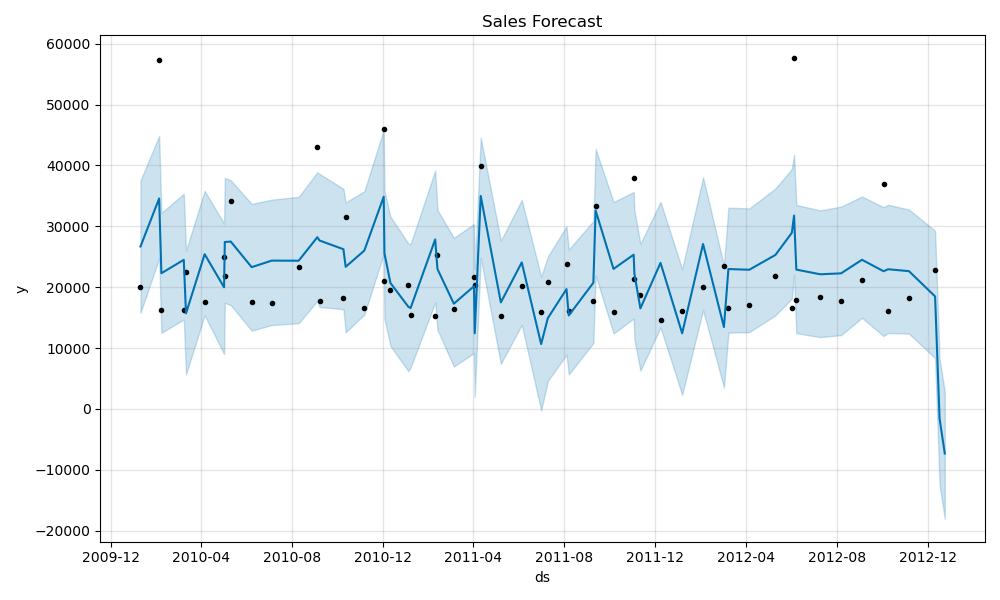
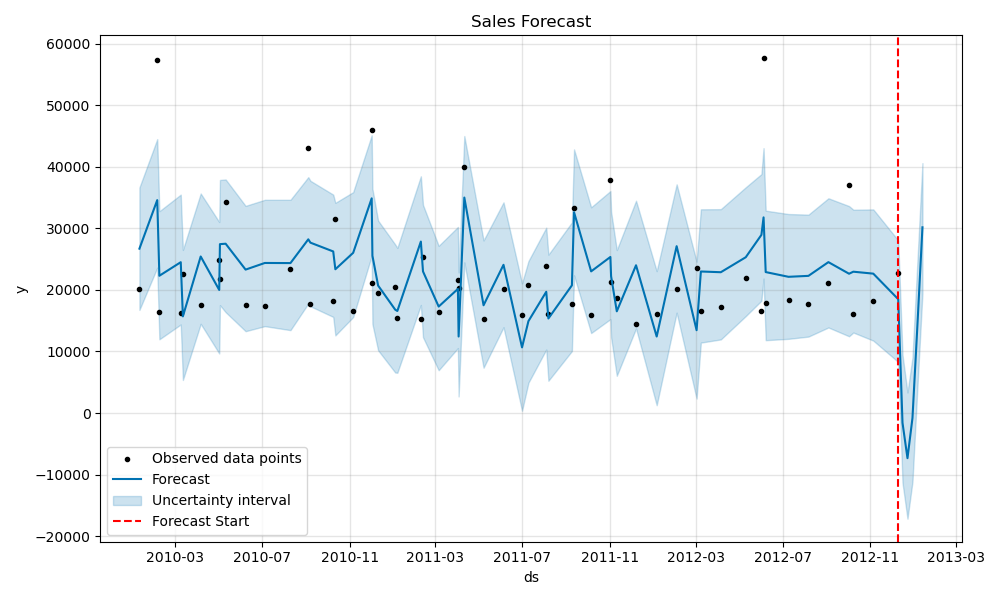
Added forecast start line and horizon input support

diff --git a/predictor/views.py b/predictor/views.py
@@ -21,6 +21,14 @@ def home(request):
 
         # Save plot
         fig = model.plot(forecast)
+
+        # Draw a red line at the end of historical data
+        # Use the length of the model history to determine cutoff
+        cutoff_date = model.history['ds'].max()
+        plt.axvline(x=cutoff_date, color='red', linestyle='--', label='Forecast Start')
+        plt.legend()
+
+        # Final touches and save
         plt.title("Sales Forecast")
         plt.tight_layout()
         forecast_image_path = os.path.join('predictor', 'static', 'forecast.png')
@@ -28,12 +36,12 @@ def home(request):
         plt.close()
         plot_path = 'forecast.png'
 
-        # Save CSV
+        # Save forecast data as CSV
         csv_path = os.path.join('predictor', 'static', 'forecast.csv')
         forecast[['ds', 'yhat', 'yhat_lower', 'yhat_upper']].to_csv(csv_path, index=False)
         csv_available = True
 
-    # ⬇ Pass horizon to the template so it remembers user input
+
     return render(request, 'predictor/home.html', {
         'plot_path': plot_path,
         'csv_available': csv_available,
